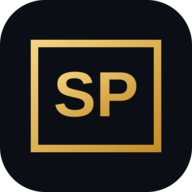
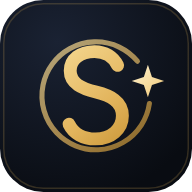
feat(brand): new Super Pro mark across the site, apps and portals
A single flowing S inside an orbit that the AI spark completes: work flows,
AI assists, you stay in control. Gold gradient on deep navy, legible from
favicon size up. Static (no looping motion).

- superpro-icon.svg, -192.png, -512.png regenerated (favicon, app icon,
  social image, public site header); new transparent superpro-mark.svg.
- premium-ui.js draws the new mark for every SP badge on the sign-in,
  account and workspace pages.
- Workspace sidebar, Founder Console, pay page and legacy page marks use the
  new icon instead of the text 'SP'.

Claude-Session: https://claude.ai/code/session_016Wyy4ZfoAE4uAbJQxb8oHs

diff --git a/saas/premium-ui.js b/saas/premium-ui.js
@@ -2,7 +2,8 @@
 // No data is read or sent here; it only changes how the page looks.
 (()=>{
   let n=0;
-  const logo=()=>{n+=1;const id='sp'+n;return `<svg class="sp-logo" viewBox="0 0 48 48" aria-hidden="true" focusable="false"><defs><linearGradient id="${id}g" x1="0" y1="0" x2="1" y2="1"><stop offset="0" stop-color="#ffe9a8"/><stop offset=".55" stop-color="#d9ad59"/><stop offset="1" stop-color="#9a6b25"/></linearGradient><linearGradient id="${id}s" x1="0" y1="0" x2="1" y2="0"><stop offset="0" stop-color="#fff" stop-opacity="0"/><stop offset=".5" stop-color="#fff" stop-opacity=".55"/><stop offset="1" stop-color="#fff" stop-opacity="0"/></linearGradient><clipPath id="${id}c"><rect x="2" y="2" width="44" height="44" rx="13"/></clipPath></defs><rect x="1.5" y="1.5" width="45" height="45" rx="13.5" fill="#0b0e14" stroke="url(#${id}g)" stroke-width="1.6"/><g clip-path="url(#${id}c)"><g class="sp-orbit"><ellipse cx="24" cy="24" rx="19.5" ry="8" fill="none" stroke="url(#${id}g)" stroke-width="1.1" opacity=".5" transform="rotate(-28 24 24)"/><circle class="sp-sat" cx="41.3" cy="16.2" r="2.3" fill="#ffe9a8"/></g><rect class="sp-shine" x="-30" y="-4" width="22" height="56" fill="url(#${id}s)" transform="skewX(-20)"/></g><path d="M9 32v-8m0 4h5m25-12v8m0-4h-5" fill="none" stroke="url(#${id}g)" stroke-width="1.4"/><circle cx="9" cy="34" r="1.5" fill="#d9ad59"/><circle cx="39" cy="14" r="1.5" fill="#d9ad59"/><text x="24" y="30.4" text-anchor="middle" font-family="Inter,'Segoe UI',system-ui,sans-serif" font-weight="900" font-size="18" letter-spacing="-.8" fill="url(#${id}g)">SP</text></svg>`};
+  // Super Pro mark (2026-10-31): one flowing S inside an orbit that the AI spark completes. Static; no looping motion.
+  const logo=()=>{n+=1;const id='sp'+n;return `<svg class="sp-logo" viewBox="0 0 48 48" aria-hidden="true" focusable="false"><defs><linearGradient id="${id}g" x1="0" y1="0" x2="1" y2="1"><stop offset="0" stop-color="#fbe3a1"/><stop offset=".55" stop-color="#e2b45c"/><stop offset="1" stop-color="#b9821f"/></linearGradient><linearGradient id="${id}s" x1="0" y1="0" x2="1" y2="1"><stop offset="0" stop-color="#fff4d6"/><stop offset="1" stop-color="#f0c66e"/></linearGradient><radialGradient id="${id}b" cx="30%" cy="22%" r="85%"><stop offset="0" stop-color="#1a2233"/><stop offset="1" stop-color="#090c12"/></radialGradient></defs><rect x="1" y="1" width="46" height="46" rx="13" fill="url(#${id}b)" stroke="url(#${id}g)" stroke-opacity=".55" stroke-width="1.2"/><g transform="scale(.75)"><path d="M45.8 20.4A18 18 0 1 0 49.8 34.5" fill="none" stroke="url(#${id}g)" stroke-width="2" stroke-linecap="round" opacity=".75"/><path d="M39.2 21.8C37.8 18.9 35 17.2 31.5 17.2C26.7 17.2 23.4 19.8 23.4 23.6C23.4 27.9 27.4 29.5 32 30.7C36.7 31.9 40.8 33.7 40.8 38.6C40.8 43 37.1 46.3 31.8 46.3C27.7 46.3 24.5 44.5 23 41.4" fill="none" stroke="url(#${id}g)" stroke-width="4.6" stroke-linecap="round" stroke-linejoin="round"/><path d="M49.3 21.6l1.35 4.05 4.05 1.35-4.05 1.35-1.35 4.05-1.35-4.05-4.05-1.35 4.05-1.35z" fill="url(#${id}s)"/></g></svg>`};
   const ICONS={
     '✦':'<svg viewBox="0 0 32 32" class="ai-ico ai-spark"><path class="a" d="M16 3l2.6 7.4L26 13l-7.4 2.6L16 23l-2.6-7.4L6 13l7.4-2.6z"/><path class="b" d="M25 20l1.1 3 3 1.1-3 1.1L25 28l-1.1-2.8-3-1.1 3-1.1z"/><path class="c" d="M7 21l.8 2.2L10 24l-2.2.8L7 27l-.8-2.2L4 24l2.2-.8z"/></svg>',
     '◎':'<svg viewBox="0 0 32 32" class="ai-ico ai-inbox"><rect x="4" y="8" width="24" height="17" rx="3.5"/><path class="a" d="M5 10l11 8 11-8"/><circle class="dot" cx="26" cy="8" r="3.2"/></svg>',

diff --git a/saas/index.html b/saas/index.html
@@ -120,7 +120,7 @@
       <p class="plans-note">No card is needed during the trial and no charge happens until payment is connected and you agree.</p></section>
 
     <section class="security-section" id="security">
-      <div class="security-visual"><div class="shield-core sp-shield">SP</div><div class="shield-ring ring-1"></div><div class="shield-ring ring-2"></div><span class="security-chip chip-a">ABN / ACN check</span><span class="security-chip chip-b">Email OTP</span><span class="security-chip chip-c">Mobile OTP</span><span class="security-chip chip-d">MFA</span></div>
+      <div class="security-visual"><div class="shield-core sp-shield"><img src="/saas/superpro-icon.svg?v=20261031" alt="" width="40" height="40" style="display:block;width:100%;height:100%;border-radius:inherit"></div><div class="shield-ring ring-1"></div><div class="shield-ring ring-2"></div><span class="security-chip chip-a">ABN / ACN check</span><span class="security-chip chip-b">Email OTP</span><span class="security-chip chip-c">Mobile OTP</span><span class="security-chip chip-d">MFA</span></div>
       <div class="security-copy"><span class="section-kicker">SECURE BY DESIGN</span><h2>A real business should create<br><em>a real workspace.</em></h2><p>Australian registration is designed to verify the business first, then verify the account owner’s email and Australian mobile before creating the workspace.</p><div class="security-list"><div><i>✓</i><span><b>Australian business identity</b><small>ABN/ACN format checks locally; official ABR/ASIC-number validation in production when configured.</small></span></div><div><i>✓</i><span><b>Two-channel contact verification</b><small>Email and mobile one-time codes before account creation.</small></span></div><div><i>✓</i><span><b>Protected sign-in</b><small>HTTP-only sessions, rate limiting, lockout controls and optional authenticator MFA.</small></span></div></div></div>
     </section>
 

diff --git a/saas/portal-shell.js b/saas/portal-shell.js
@@ -11,7 +11,7 @@
     const nav = window.SuperProNav, session = window.GDS_SESSION; if (!nav || !session || !window.SuperProNavigation) return;
     if (!rail) {
       document.body.classList.add('portal-workspace'); rail = make('aside', 'portal-rail'); rail.id = 'business-navigation'; rail.setAttribute('aria-label', 'Business navigation');
-      const brand = make('a', 'portal-brand'); brand.href = '#b01/home'; brand.append(make('span', 'portal-mark', 'SP'), make('span', 'navigation-label', 'Super Pro AI'));
+      const brand = make('a', 'portal-brand'); brand.href = '#b01/home'; brand.append((() => { const m = make('span', 'portal-mark'), i = document.createElement('img'); i.src = '/saas/superpro-icon.svg?v=20261031'; i.alt = ''; i.width = i.height = 40; i.style.cssText = 'display:block;width:100%;height:100%;border-radius:inherit'; m.append(i); return m; })(), make('span', 'navigation-label', 'Super Pro AI'));
       const toggle = make('button', 'portal-main-button'); toggle.type = 'button'; toggle.append(make('span', 'portal-icon', '☰'), make('span', 'navigation-label', 'Collapse navigation')); rail.append(brand, toggle);
       const context = document.getElementById('workspace-context'); if (context) rail.append(context);
       rail.append(make('nav')); document.getElementById('workspace').append(rail);

diff --git a/saas/pay.html b/saas/pay.html
@@ -9,7 +9,7 @@
 <link rel="stylesheet" href="premium-ui.css?v=20261027"/><script defer src="premium-ui.js?v=20261028.5"></script><link rel="stylesheet" href="unified-ui.css?v=20261028.7"><script defer src="unified-ui.js?v=20261029.1"></script><link rel="stylesheet" href="ds/tokens.css?v=20261030"><link rel="stylesheet" href="ds/retheme.css?v=20261030"><script src="ds/motion.js?v=20261030" defer></script></head>
 <body>
 <main class="pay-wrap">
-  <header class="pay-brand"><span class="pay-glyph">SP</span><span>Super Pro AI Office Manager</span></header>
+  <header class="pay-brand"><span class="pay-glyph"><img src="/saas/superpro-icon.svg?v=20261031" alt="" width="40" height="40" style="display:block;width:100%;height:100%;border-radius:inherit"></span><span>Super Pro AI Office Manager</span></header>
   <section class="pay-card" id="pay-card" aria-live="polite"><p class="pay-muted">Loading your invoice…</p></section>
   <p class="pay-foot">Payments are processed by the provider you choose. We never see or store your card number.</p>
 </main>

diff --git a/office/console.html b/office/console.html
@@ -22,7 +22,7 @@
       aria-label="Founder main sections"
     >
       <a class="portal-brand" href="#f01"
-        ><span class="portal-mark">SP</span><span>Super Pro AI</span></a
+        ><span class="portal-mark"><img src="/saas/superpro-icon.svg?v=20261031" alt="" width="40" height="40" style="display:block;width:100%;height:100%;border-radius:inherit"></span><span>Super Pro AI</span></a
       ><button
         type="button"
         class="portal-main-button"
